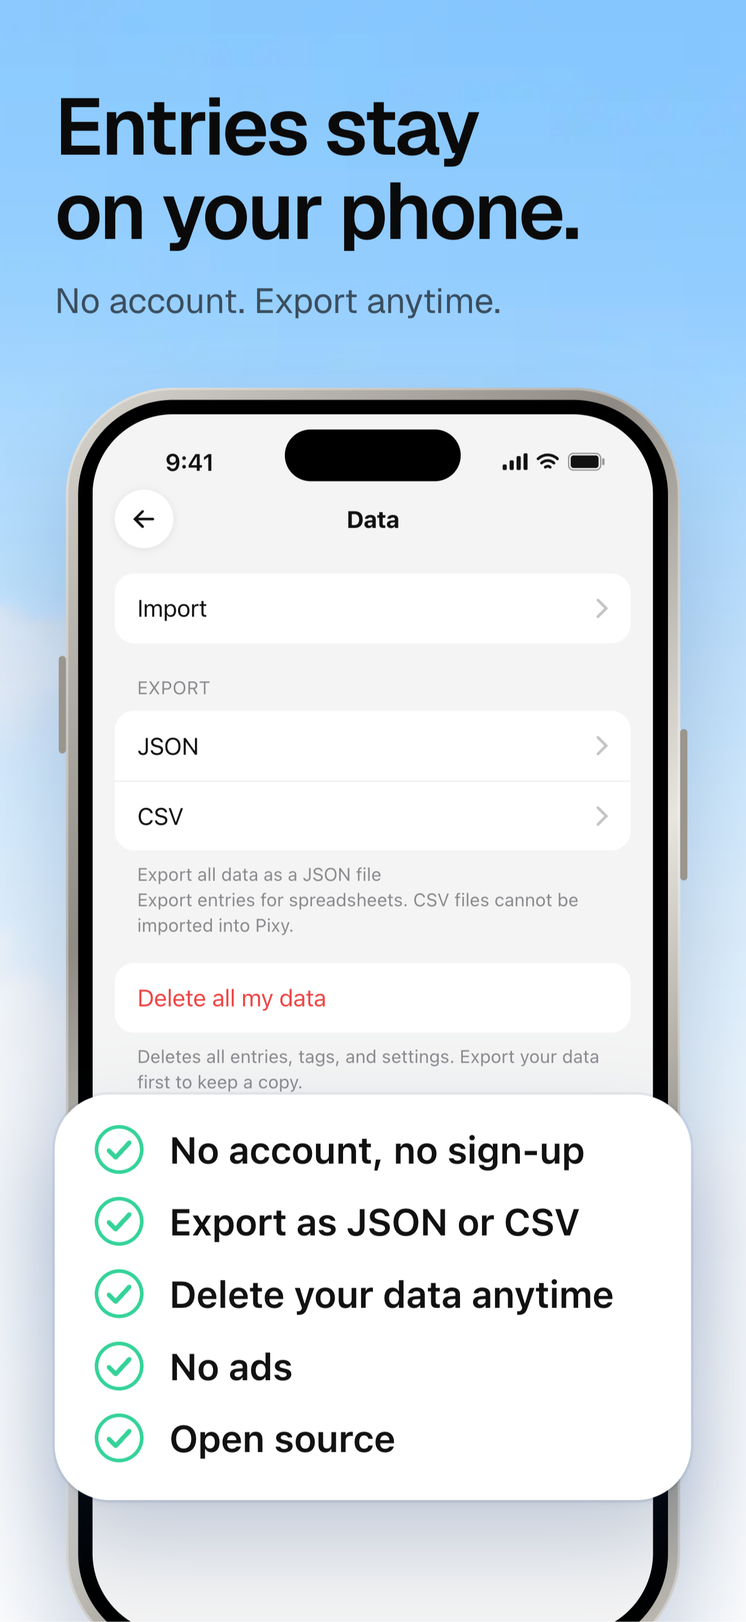
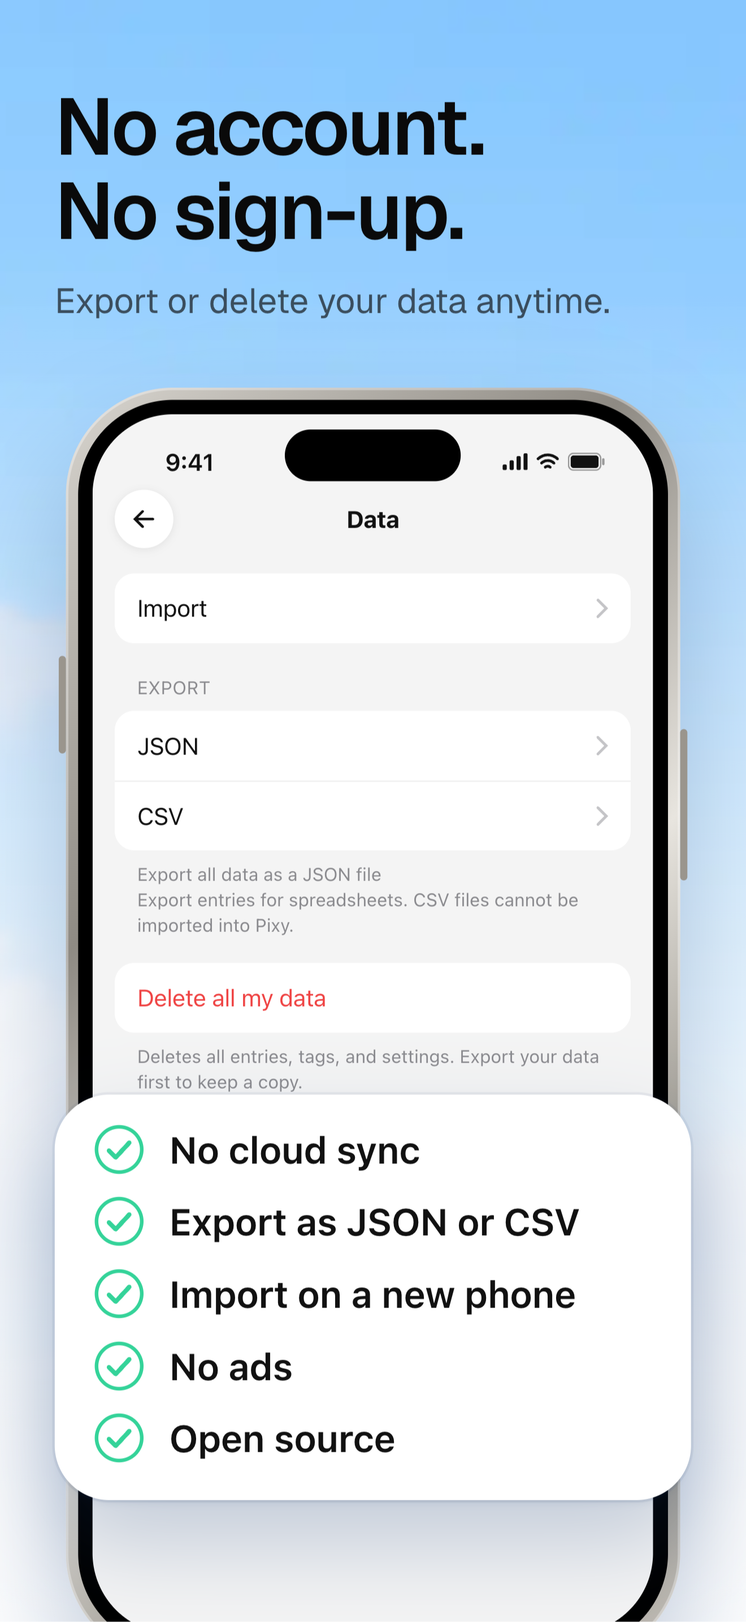
docs(store-screenshots): unbranded import frame, dark no-account frame
- Play 07: generic .csv/.json/.zip export files flow through Pixy Switch into the calendar, no app names or logos
- Play 08: back to the dark checklist frame, headline No account. No sign-up.
- Apple 07: No account. No sign-up. with No cloud sync in the checklist
- Drop Entries stay on your phone: analytics may include mood values outside the EU

diff --git a/docs/store-screenshots/index.html b/docs/store-screenshots/index.html
@@ -168,11 +168,18 @@ radial-gradient(1.4px 1.4px at 18% 10%,#fff,transparent),radial-gradient(1px 1px
 .zoom.note{display:block !important;width:256px !important;max-width:256px !important;font:400 15px/1.4 -apple-system,system-ui;padding:14px 16px}
 .android-set .zoom.checks div,.android-set .zoom.note{font-family:Roboto,system-ui}
 .android-set .scr h4{font-size:29px}
+.scr.dark .plist{margin:auto 0}
+.xfer{position:absolute;z-index:6;left:0;right:0;display:flex;justify-content:center;gap:12px;flex-wrap:wrap}
+.xf{width:72px;background:#fff;border-radius:16px;padding:10px 0 8px;display:flex;flex-direction:column;align-items:center;gap:7px;box-shadow:var(--sky-shadow)}
+.xt{width:44px;height:44px;border-radius:12px;display:flex;align-items:center;justify-content:center}
+.xc{font:600 12px ui-monospace,SFMono-Regular,Menlo,monospace;color:#0a0a0a;background:#f0f0f2;border-radius:6px;padding:2px 7px}
+.xa{flex-basis:100%;display:flex;flex-direction:column;align-items:center;gap:3px;margin-top:-4px}
+.xa b{order:-1;font:600 11px Geist,system-ui;letter-spacing:.07em;text-transform:uppercase;color:#0a0a0a;background:#fff;border-radius:999px;padding:4px 10px;box-shadow:var(--sky-shadow)}
 </style></head><body><main>
 <h1>Pixy store screenshots</h1>
 <p class="muted">Separate sets for the App Store and Google Play (copy and order in <code>STORES</code> in build.py). Spec: <a href="app-screens.md">app-screens.md</a>. Rebuild: <code>python3 build.py</code>, export PNGs: <code>./export.sh</code>, then serve this folder (<code>python3 -m http.server</code>).</p>
-<div class="platform"><h2>iPhone · App Store</h2></div><div class="set " data-store="apple"><div class="slot" data-name="calendar"><div class="scr"><h4 class="">Your days,<br>in pixels.</h4><div class="sub">Log a mood in seconds.</div><div class="phA" style="top:186px;left:24%;transform:translateX(-50%) rotate(-5deg) scale(.85);transform-origin:50% 0;"><div class="bz"><div class="sc" data-app="mood" data-args=''></div></div></div><div class="phA" style="top:150px;left:76%;transform:translateX(-50%) rotate(5deg) scale(.85);transform-origin:50% 0;z-index:2;"><div class="bz"><div class="sc" data-app="calendar" data-args=''></div></div></div></div><div class="lab"><b>1 · calendar.</b> Pixel calendar. Mood logger behind, calendar in front and higher.</div></div><div class="slot" data-name="year"><div class="scr"><h4 class="">Your whole year<br>at a glance</h4><div class="sub">One pixel for every day.</div><div class="phA" style="top:156px;transform:translateX(-50%) scale(var(--fit));transform-origin:50% 0;"><div class="bz"><div class="sc" data-app="year" data-args=''></div></div></div></div><div class="lab"><b>2 · year.</b> Year Report: Year in Pixels.</div></div><div class="slot" data-name="emotions"><div class="scr"><h4 class="">72 emotions,<br>each explained.</h4><div class="sub">Name what you feel.</div><div class="phA" style="top:156px;transform:translateX(-50%) scale(var(--fit));transform-origin:50% 0;"><div class="bz"><div class="sc" data-app="emotions" data-args=''></div></div></div><div class="zoom" style="top:500px"><span class="zc on" data-emo="calm"></span><span class="zc on" data-emo="hopeful"></span><span class="zc" data-emo="grateful"></span><span class="zc" data-emo="anxious"></span></div></div><div class="lab"><b>3 · emotions.</b> Logger emotions slide, Calm, Hopeful, Grateful, Anxious popped out.</div></div><div class="slot" data-name="stats"><div class="scr"><h4 class="">See your<br>patterns</h4><div class="sub">Mood trends and reports.</div><div class="phA" style="top:156px;transform:translateX(-50%) scale(var(--fit));transform-origin:50% 0;"><div class="bz"><div class="sc" data-app="stats" data-args=''></div></div></div></div><div class="lab"><b>4 · stats.</b> Statistics highlights: mood average, mood chart, most felt emotions.</div></div><div class="slot" data-name="tags"><div class="scr"><h4 class="">Tag what<br>matters</h4><div class="sub">Add tags and a note.</div><div class="phA" style="top:186px;left:24%;transform:translateX(-50%) rotate(-5deg) scale(.85);transform-origin:50% 0;"><div class="bz"><div class="sc" data-app="note" data-args=''></div></div></div><div class="phA" style="top:150px;left:76%;transform:translateX(-50%) rotate(5deg) scale(.85);transform-origin:50% 0;z-index:2;"><div class="bz"><div class="sc" data-app="tags" data-args=''></div></div></div><div class="zoom" style="top:500px"><span class="zc on"><i style="background:#22c55e"></i>Sport</span><span class="zc on"><i style="background:#f59e0b"></i>Hyperfocus</span><span class="zc on"><i style="background:#8b5cf6"></i>Took meds</span><span class="zc on"><i style="background:#3b82f6"></i>Meetings</span></div></div><div class="lab"><b>5 · tags.</b> Note slide behind, tags slide in front, own tags popped out.</div></div><div class="slot" data-name="sleep"><div class="scr"><h4 class="">Track your<br>sleep</h4><div class="sub">Rate each night in a tap.</div><div class="phA" style="top:156px;transform:translateX(-50%) scale(var(--fit));transform-origin:50% 0;"><div class="bz"><div class="sc" data-app="sleep" data-args=''></div></div></div><div class="popcard" data-card="sleepchart" style="left:50%;top:430px;transform:translateX(-50%) scale(.7);transform-origin:50% 0"></div></div><div class="lab"><b>6 · sleep.</b> Sleep slide, sleep quality chart popped out.</div></div><div class="slot" data-name="data"><div class="scr"><h4 class="">Entries stay<br>on your phone.</h4><div class="sub">No account. Export anytime.</div><div class="phA" style="top:156px;transform:translateX(-50%) scale(var(--fit));transform-origin:50% 0;"><div class="bz"><div class="sc" data-app="data" data-args=''></div></div></div><div class="zoom checks" style="top:440px"><div><svg width="22" height="22" viewBox="0 0 22 22"><circle cx="11" cy="11" r="10" fill="none" stroke="#34d399" stroke-width="1.6"/><path d="M6.5 11.5l3 3L15.5 8" stroke="#34d399" stroke-width="2" fill="none" stroke-linecap="round" stroke-linejoin="round"/></svg>No account, no sign-up</div><div><svg width="22" height="22" viewBox="0 0 22 22"><circle cx="11" cy="11" r="10" fill="none" stroke="#34d399" stroke-width="1.6"/><path d="M6.5 11.5l3 3L15.5 8" stroke="#34d399" stroke-width="2" fill="none" stroke-linecap="round" stroke-linejoin="round"/></svg>Export as JSON or CSV</div><div><svg width="22" height="22" viewBox="0 0 22 22"><circle cx="11" cy="11" r="10" fill="none" stroke="#34d399" stroke-width="1.6"/><path d="M6.5 11.5l3 3L15.5 8" stroke="#34d399" stroke-width="2" fill="none" stroke-linecap="round" stroke-linejoin="round"/></svg>Delete your data anytime</div><div><svg width="22" height="22" viewBox="0 0 22 22"><circle cx="11" cy="11" r="10" fill="none" stroke="#34d399" stroke-width="1.6"/><path d="M6.5 11.5l3 3L15.5 8" stroke="#34d399" stroke-width="2" fill="none" stroke-linecap="round" stroke-linejoin="round"/></svg>No ads</div><div><svg width="22" height="22" viewBox="0 0 22 22"><circle cx="11" cy="11" r="10" fill="none" stroke="#34d399" stroke-width="1.6"/><path d="M6.5 11.5l3 3L15.5 8" stroke="#34d399" stroke-width="2" fill="none" stroke-linecap="round" stroke-linejoin="round"/></svg>Open source</div></div></div><div class="lab"><b>7 · data.</b> Settings > Data: import, JSON/CSV export, delete. Checklist card.</div></div></div>
-<div class="platform"><h2>Android · Google Play</h2></div><div class="set android-set" data-store="play"><div class="slot" data-name="calendar"><div class="scr"><div class="k">Mood journal</div><h4 class="">Your days,<br>in pixels.</h4><div class="sub">Rate your day in seconds. Each day<br>becomes one colored square.</div><div class="phA" style="top:214px;left:24%;transform:translateX(-50%) rotate(-5deg) scale(.85);transform-origin:50% 0;"><div class="bz"><div class="sc" data-app="mood" data-args=''></div></div></div><div class="phA" style="top:178px;left:76%;transform:translateX(-50%) rotate(5deg) scale(.85);transform-origin:50% 0;z-index:2;"><div class="bz"><div class="sc" data-app="calendar" data-args=''></div></div></div></div><div class="lab"><b>1 · calendar.</b> Pixel calendar. Mood logger behind, calendar in front and higher.</div></div><div class="slot" data-name="year"><div class="scr"><div class="k">Year in Pixels</div><h4 class="">Your whole year<br>at a glance</h4><div class="sub">One pixel per day, a full year<br>on one screen.</div><div class="phA" style="top:184px;transform:translateX(-50%) scale(var(--fit));transform-origin:50% 0;"><div class="bz"><div class="sc" data-app="year" data-args=''></div></div></div></div><div class="lab"><b>2 · year.</b> Year Report: Year in Pixels.</div></div><div class="slot" data-name="emotions"><div class="scr"><div class="k">Emotions</div><h4 class="">Name what<br>you feel.</h4><div class="sub">72 emotions, each with a short<br>explanation.</div><div class="phA" style="top:184px;transform:translateX(-50%) scale(var(--fit));transform-origin:50% 0;"><div class="bz"><div class="sc" data-app="emotions" data-args=''></div></div></div><div class="zoom" style="top:400px"><span class="zc on" data-emo="calm"></span><span class="zc on" data-emo="hopeful"></span><span class="zc" data-emo="grateful"></span><span class="zc" data-emo="anxious"></span></div></div><div class="lab"><b>3 · emotions.</b> Logger emotions slide, Calm, Hopeful, Grateful, Anxious popped out.</div></div><div class="slot" data-name="tags"><div class="scr"><div class="k">Tags and notes</div><h4 class="">Tag what<br>matters</h4><div class="sub">Create your own tags. Add a note<br>to any entry.</div><div class="phA" style="top:214px;left:24%;transform:translateX(-50%) rotate(-5deg) scale(.85);transform-origin:50% 0;"><div class="bz"><div class="sc" data-app="note" data-args=''></div></div></div><div class="phA" style="top:178px;left:76%;transform:translateX(-50%) rotate(5deg) scale(.85);transform-origin:50% 0;z-index:2;"><div class="bz"><div class="sc" data-app="tags" data-args=''></div></div></div><div class="zoom" style="top:400px"><span class="zc on"><i style="background:#22c55e"></i>Sport</span><span class="zc on"><i style="background:#f59e0b"></i>Hyperfocus</span><span class="zc on"><i style="background:#8b5cf6"></i>Took meds</span><span class="zc on"><i style="background:#3b82f6"></i>Meetings</span></div></div><div class="lab"><b>4 · tags.</b> Note slide behind, tags slide in front, own tags popped out.</div></div><div class="slot" data-name="stats"><div class="scr"><div class="k">Statistics</div><h4 class="">Spot your<br>patterns</h4><div class="sub">Mood trends, most felt emotions,<br>month and year reports.</div><div class="phA" style="top:184px;transform:translateX(-50%) scale(var(--fit));transform-origin:50% 0;"><div class="bz"><div class="sc" data-app="stats" data-args=''></div></div></div></div><div class="lab"><b>5 · stats.</b> Statistics highlights: mood average, mood chart, most felt emotions.</div></div><div class="slot" data-name="sleep"><div class="scr"><div class="k">Sleep</div><h4 class="">Track how<br>you sleep</h4><div class="sub">Rate each night and follow the<br>trend in your statistics.</div><div class="phA" style="top:184px;transform:translateX(-50%) scale(var(--fit));transform-origin:50% 0;"><div class="bz"><div class="sc" data-app="sleep" data-args=''></div></div></div><div class="popcard" data-card="sleepchart" style="left:50%;top:360px;transform:translateX(-50%) scale(.7);transform-origin:50% 0"></div></div><div class="lab"><b>6 · sleep.</b> Sleep slide, sleep quality chart popped out.</div></div><div class="slot" data-name="switch"><div class="scr"><div class="k">Import and export</div><h4 class="">Bring your<br>old entries</h4><div class="sub">Pixy Switch converts exports from<br>21 mood and journal apps.</div><div class="phA" style="top:184px;transform:translateX(-50%) scale(var(--fit));transform-origin:50% 0;"><div class="bz"><div class="sc" data-app="data" data-args=''></div></div></div><div class="zoom note" style="top:346px"><div class="zl">Pixy Switch</div>Convert the export from your old app in the browser. Then tap <b>Import</b> in Pixy.</div></div><div class="lab"><b>7 · switch.</b> Settings > Data with a Pixy Switch card.</div></div><div class="slot" data-name="noaccount"><div class="scr"><div class="k">No account</div><h4 class="">No account.<br>No sign-up.</h4><div class="sub">Open Pixy and log your first day.<br>Entries stay on your phone.</div><div class="phA" style="top:184px;transform:translateX(-50%) scale(var(--fit));transform-origin:50% 0;"><div class="bz"><div class="sc" data-app="mood" data-args=''></div></div></div><div class="zoom checks" style="top:372px"><div><svg width="22" height="22" viewBox="0 0 22 22"><circle cx="11" cy="11" r="10" fill="none" stroke="#34d399" stroke-width="1.6"/><path d="M6.5 11.5l3 3L15.5 8" stroke="#34d399" stroke-width="2" fill="none" stroke-linecap="round" stroke-linejoin="round"/></svg>Export as JSON or CSV</div><div><svg width="22" height="22" viewBox="0 0 22 22"><circle cx="11" cy="11" r="10" fill="none" stroke="#34d399" stroke-width="1.6"/><path d="M6.5 11.5l3 3L15.5 8" stroke="#34d399" stroke-width="2" fill="none" stroke-linecap="round" stroke-linejoin="round"/></svg>Import on a new phone</div><div><svg width="22" height="22" viewBox="0 0 22 22"><circle cx="11" cy="11" r="10" fill="none" stroke="#34d399" stroke-width="1.6"/><path d="M6.5 11.5l3 3L15.5 8" stroke="#34d399" stroke-width="2" fill="none" stroke-linecap="round" stroke-linejoin="round"/></svg>Delete your data anytime</div><div><svg width="22" height="22" viewBox="0 0 22 22"><circle cx="11" cy="11" r="10" fill="none" stroke="#34d399" stroke-width="1.6"/><path d="M6.5 11.5l3 3L15.5 8" stroke="#34d399" stroke-width="2" fill="none" stroke-linecap="round" stroke-linejoin="round"/></svg>Open source</div></div></div><div class="lab"><b>8 · noaccount.</b> Mood logger right after opening the app. Checklist card.</div></div></div>
+<div class="platform"><h2>iPhone · App Store</h2></div><div class="set " data-store="apple"><div class="slot" data-name="calendar"><div class="scr "><h4 class="">Your days,<br>in pixels.</h4><div class="sub">Log a mood in seconds.</div><div class="phA" style="top:186px;left:24%;transform:translateX(-50%) rotate(-5deg) scale(.85);transform-origin:50% 0;"><div class="bz"><div class="sc" data-app="mood" data-args=''></div></div></div><div class="phA" style="top:150px;left:76%;transform:translateX(-50%) rotate(5deg) scale(.85);transform-origin:50% 0;z-index:2;"><div class="bz"><div class="sc" data-app="calendar" data-args=''></div></div></div></div><div class="lab"><b>1 · calendar.</b> Pixel calendar. Mood logger behind, calendar in front and higher.</div></div><div class="slot" data-name="year"><div class="scr "><h4 class="">Your whole year<br>at a glance</h4><div class="sub">One pixel for every day.</div><div class="phA" style="top:156px;transform:translateX(-50%) scale(var(--fit));transform-origin:50% 0;"><div class="bz"><div class="sc" data-app="year" data-args=''></div></div></div></div><div class="lab"><b>2 · year.</b> Year Report: Year in Pixels.</div></div><div class="slot" data-name="emotions"><div class="scr "><h4 class="">72 emotions,<br>each explained.</h4><div class="sub">Name what you feel.</div><div class="phA" style="top:156px;transform:translateX(-50%) scale(var(--fit));transform-origin:50% 0;"><div class="bz"><div class="sc" data-app="emotions" data-args=''></div></div></div><div class="zoom" style="top:500px"><span class="zc on" data-emo="calm"></span><span class="zc on" data-emo="hopeful"></span><span class="zc" data-emo="grateful"></span><span class="zc" data-emo="anxious"></span></div></div><div class="lab"><b>3 · emotions.</b> Logger emotions slide, Calm, Hopeful, Grateful, Anxious popped out.</div></div><div class="slot" data-name="stats"><div class="scr "><h4 class="">See your<br>patterns</h4><div class="sub">Mood trends and reports.</div><div class="phA" style="top:156px;transform:translateX(-50%) scale(var(--fit));transform-origin:50% 0;"><div class="bz"><div class="sc" data-app="stats" data-args=''></div></div></div></div><div class="lab"><b>4 · stats.</b> Statistics highlights: mood average, mood chart, most felt emotions.</div></div><div class="slot" data-name="tags"><div class="scr "><h4 class="">Tag what<br>matters</h4><div class="sub">Add tags and a note.</div><div class="phA" style="top:186px;left:24%;transform:translateX(-50%) rotate(-5deg) scale(.85);transform-origin:50% 0;"><div class="bz"><div class="sc" data-app="note" data-args=''></div></div></div><div class="phA" style="top:150px;left:76%;transform:translateX(-50%) rotate(5deg) scale(.85);transform-origin:50% 0;z-index:2;"><div class="bz"><div class="sc" data-app="tags" data-args=''></div></div></div><div class="zoom" style="top:500px"><span class="zc on"><i style="background:#22c55e"></i>Sport</span><span class="zc on"><i style="background:#f59e0b"></i>Hyperfocus</span><span class="zc on"><i style="background:#8b5cf6"></i>Took meds</span><span class="zc on"><i style="background:#3b82f6"></i>Meetings</span></div></div><div class="lab"><b>5 · tags.</b> Note slide behind, tags slide in front, own tags popped out.</div></div><div class="slot" data-name="sleep"><div class="scr "><h4 class="">Track your<br>sleep</h4><div class="sub">Rate each night in a tap.</div><div class="phA" style="top:156px;transform:translateX(-50%) scale(var(--fit));transform-origin:50% 0;"><div class="bz"><div class="sc" data-app="sleep" data-args=''></div></div></div><div class="popcard" data-card="sleepchart" style="left:50%;top:430px;transform:translateX(-50%) scale(.7);transform-origin:50% 0"></div></div><div class="lab"><b>6 · sleep.</b> Sleep slide, sleep quality chart popped out.</div></div><div class="slot" data-name="data"><div class="scr "><h4 class="">No account.<br>No sign-up.</h4><div class="sub">Export or delete your data anytime.</div><div class="phA" style="top:156px;transform:translateX(-50%) scale(var(--fit));transform-origin:50% 0;"><div class="bz"><div class="sc" data-app="data" data-args=''></div></div></div><div class="zoom checks" style="top:440px"><div><svg width="22" height="22" viewBox="0 0 22 22"><circle cx="11" cy="11" r="10" fill="none" stroke="#34d399" stroke-width="1.6"/><path d="M6.5 11.5l3 3L15.5 8" stroke="#34d399" stroke-width="2" fill="none" stroke-linecap="round" stroke-linejoin="round"/></svg>No cloud sync</div><div><svg width="22" height="22" viewBox="0 0 22 22"><circle cx="11" cy="11" r="10" fill="none" stroke="#34d399" stroke-width="1.6"/><path d="M6.5 11.5l3 3L15.5 8" stroke="#34d399" stroke-width="2" fill="none" stroke-linecap="round" stroke-linejoin="round"/></svg>Export as JSON or CSV</div><div><svg width="22" height="22" viewBox="0 0 22 22"><circle cx="11" cy="11" r="10" fill="none" stroke="#34d399" stroke-width="1.6"/><path d="M6.5 11.5l3 3L15.5 8" stroke="#34d399" stroke-width="2" fill="none" stroke-linecap="round" stroke-linejoin="round"/></svg>Import on a new phone</div><div><svg width="22" height="22" viewBox="0 0 22 22"><circle cx="11" cy="11" r="10" fill="none" stroke="#34d399" stroke-width="1.6"/><path d="M6.5 11.5l3 3L15.5 8" stroke="#34d399" stroke-width="2" fill="none" stroke-linecap="round" stroke-linejoin="round"/></svg>No ads</div><div><svg width="22" height="22" viewBox="0 0 22 22"><circle cx="11" cy="11" r="10" fill="none" stroke="#34d399" stroke-width="1.6"/><path d="M6.5 11.5l3 3L15.5 8" stroke="#34d399" stroke-width="2" fill="none" stroke-linecap="round" stroke-linejoin="round"/></svg>Open source</div></div></div><div class="lab"><b>7 · data.</b> Settings > Data: import, JSON/CSV export, delete. Checklist card.</div></div></div>
+<div class="platform"><h2>Android · Google Play</h2></div><div class="set android-set" data-store="play"><div class="slot" data-name="calendar"><div class="scr "><div class="k">Mood journal</div><h4 class="">Your days,<br>in pixels.</h4><div class="sub">Rate your day in seconds. Each day<br>becomes one colored square.</div><div class="phA" style="top:214px;left:24%;transform:translateX(-50%) rotate(-5deg) scale(.85);transform-origin:50% 0;"><div class="bz"><div class="sc" data-app="mood" data-args=''></div></div></div><div class="phA" style="top:178px;left:76%;transform:translateX(-50%) rotate(5deg) scale(.85);transform-origin:50% 0;z-index:2;"><div class="bz"><div class="sc" data-app="calendar" data-args=''></div></div></div></div><div class="lab"><b>1 · calendar.</b> Pixel calendar. Mood logger behind, calendar in front and higher.</div></div><div class="slot" data-name="year"><div class="scr "><div class="k">Year in Pixels</div><h4 class="">Your whole year<br>at a glance</h4><div class="sub">One pixel per day, a full year<br>on one screen.</div><div class="phA" style="top:184px;transform:translateX(-50%) scale(var(--fit));transform-origin:50% 0;"><div class="bz"><div class="sc" data-app="year" data-args=''></div></div></div></div><div class="lab"><b>2 · year.</b> Year Report: Year in Pixels.</div></div><div class="slot" data-name="emotions"><div class="scr "><div class="k">Emotions</div><h4 class="">Name what<br>you feel.</h4><div class="sub">72 emotions, each with a short<br>explanation.</div><div class="phA" style="top:184px;transform:translateX(-50%) scale(var(--fit));transform-origin:50% 0;"><div class="bz"><div class="sc" data-app="emotions" data-args=''></div></div></div><div class="zoom" style="top:400px"><span class="zc on" data-emo="calm"></span><span class="zc on" data-emo="hopeful"></span><span class="zc" data-emo="grateful"></span><span class="zc" data-emo="anxious"></span></div></div><div class="lab"><b>3 · emotions.</b> Logger emotions slide, Calm, Hopeful, Grateful, Anxious popped out.</div></div><div class="slot" data-name="tags"><div class="scr "><div class="k">Tags and notes</div><h4 class="">Tag what<br>matters</h4><div class="sub">Create your own tags. Add a note<br>to any entry.</div><div class="phA" style="top:214px;left:24%;transform:translateX(-50%) rotate(-5deg) scale(.85);transform-origin:50% 0;"><div class="bz"><div class="sc" data-app="note" data-args=''></div></div></div><div class="phA" style="top:178px;left:76%;transform:translateX(-50%) rotate(5deg) scale(.85);transform-origin:50% 0;z-index:2;"><div class="bz"><div class="sc" data-app="tags" data-args=''></div></div></div><div class="zoom" style="top:400px"><span class="zc on"><i style="background:#22c55e"></i>Sport</span><span class="zc on"><i style="background:#f59e0b"></i>Hyperfocus</span><span class="zc on"><i style="background:#8b5cf6"></i>Took meds</span><span class="zc on"><i style="background:#3b82f6"></i>Meetings</span></div></div><div class="lab"><b>4 · tags.</b> Note slide behind, tags slide in front, own tags popped out.</div></div><div class="slot" data-name="stats"><div class="scr "><div class="k">Statistics</div><h4 class="">Spot your<br>patterns</h4><div class="sub">Mood trends, most felt emotions,<br>month and year reports.</div><div class="phA" style="top:184px;transform:translateX(-50%) scale(var(--fit));transform-origin:50% 0;"><div class="bz"><div class="sc" data-app="stats" data-args=''></div></div></div></div><div class="lab"><b>5 · stats.</b> Statistics highlights: mood average, mood chart, most felt emotions.</div></div><div class="slot" data-name="sleep"><div class="scr "><div class="k">Sleep</div><h4 class="">Track how<br>you sleep</h4><div class="sub">Rate each night and follow the<br>trend in your statistics.</div><div class="phA" style="top:184px;transform:translateX(-50%) scale(var(--fit));transform-origin:50% 0;"><div class="bz"><div class="sc" data-app="sleep" data-args=''></div></div></div><div class="popcard" data-card="sleepchart" style="left:50%;top:360px;transform:translateX(-50%) scale(.7);transform-origin:50% 0"></div></div><div class="lab"><b>6 · sleep.</b> Sleep slide, sleep quality chart popped out.</div></div><div class="slot" data-name="switch"><div class="scr "><div class="k">Import and export</div><h4 class="">Bring your<br>old entries</h4><div class="sub">Convert exports from 21 mood and<br>journal apps with Pixy Switch.</div><div class="xfer" style="top:176px"><div class="xf" style="transform:rotate(-7deg)"><span class="xt" style="background:#f97316;color:#f97316"><svg width="22" height="26" viewBox="0 0 22 26"><path d="M3 1h11l7 7v15a2 2 0 0 1-2 2H3a2 2 0 0 1-2-2V3a2 2 0 0 1 2-2z" fill="#fff"/><path d="M14 1v7h7" fill="rgba(0,0,0,.18)"/><path d="M5 13h12M5 17h12M5 21h8" stroke="currentColor" stroke-width="1.6" stroke-linecap="round" opacity=".55"/></svg></span><span class="xc">.csv</span></div><div class="xf" style="transform:rotate(0deg)"><span class="xt" style="background:#8b5cf6;color:#8b5cf6"><svg width="22" height="26" viewBox="0 0 22 26"><path d="M3 1h11l7 7v15a2 2 0 0 1-2 2H3a2 2 0 0 1-2-2V3a2 2 0 0 1 2-2z" fill="#fff"/><path d="M14 1v7h7" fill="rgba(0,0,0,.18)"/><path d="M5 13h12M5 17h12M5 21h8" stroke="currentColor" stroke-width="1.6" stroke-linecap="round" opacity=".55"/></svg></span><span class="xc">.json</span></div><div class="xf" style="transform:rotate(7deg)"><span class="xt" style="background:#0ea5e9;color:#0ea5e9"><svg width="22" height="26" viewBox="0 0 22 26"><path d="M3 1h11l7 7v15a2 2 0 0 1-2 2H3a2 2 0 0 1-2-2V3a2 2 0 0 1 2-2z" fill="#fff"/><path d="M14 1v7h7" fill="rgba(0,0,0,.18)"/><path d="M5 13h12M5 17h12M5 21h8" stroke="currentColor" stroke-width="1.6" stroke-linecap="round" opacity=".55"/></svg></span><span class="xc">.zip</span></div><div class="xa"><svg width="12" height="16" viewBox="0 0 14 22" fill="none" stroke="#0a0a0a" stroke-width="2" stroke-linecap="round" stroke-linejoin="round"><path d="M7 1v19M1.5 14.5 7 20l5.5-5.5"/></svg><b>Pixy Switch</b></div></div><div class="phA" style="top:324px;transform:translateX(-50%) scale(var(--fit));transform-origin:50% 0;"><div class="bz"><div class="sc" data-app="calendar" data-args=''></div></div></div></div><div class="lab"><b>7 · switch.</b> Three unbranded export files (.csv, .json, .zip) flow through Pixy Switch into the calendar. No other app names or logos.</div></div><div class="slot" data-name="noaccount"><div class="scr dark"><div class="k">No account</div><h4 class="">No account.<br>No sign-up.</h4><div class="sub">Open Pixy and log your first day.</div><div class="plist"><div><svg width="22" height="22" viewBox="0 0 22 22"><circle cx="11" cy="11" r="10" fill="none" stroke="#34d399" stroke-width="1.6"/><path d="M6.5 11.5l3 3L15.5 8" stroke="#34d399" stroke-width="2" fill="none" stroke-linecap="round" stroke-linejoin="round"/></svg>No account needed</div><div><svg width="22" height="22" viewBox="0 0 22 22"><circle cx="11" cy="11" r="10" fill="none" stroke="#34d399" stroke-width="1.6"/><path d="M6.5 11.5l3 3L15.5 8" stroke="#34d399" stroke-width="2" fill="none" stroke-linecap="round" stroke-linejoin="round"/></svg>Export as JSON or CSV</div><div><svg width="22" height="22" viewBox="0 0 22 22"><circle cx="11" cy="11" r="10" fill="none" stroke="#34d399" stroke-width="1.6"/><path d="M6.5 11.5l3 3L15.5 8" stroke="#34d399" stroke-width="2" fill="none" stroke-linecap="round" stroke-linejoin="round"/></svg>Import on a new phone</div><div><svg width="22" height="22" viewBox="0 0 22 22"><circle cx="11" cy="11" r="10" fill="none" stroke="#34d399" stroke-width="1.6"/><path d="M6.5 11.5l3 3L15.5 8" stroke="#34d399" stroke-width="2" fill="none" stroke-linecap="round" stroke-linejoin="round"/></svg>Delete your data anytime</div><div><svg width="22" height="22" viewBox="0 0 22 22"><circle cx="11" cy="11" r="10" fill="none" stroke="#34d399" stroke-width="1.6"/><path d="M6.5 11.5l3 3L15.5 8" stroke="#34d399" stroke-width="2" fill="none" stroke-linecap="round" stroke-linejoin="round"/></svg>Open source</div></div></div><div class="lab"><b>8 · noaccount.</b> Dark checklist frame (night sky), list mid-screen.</div></div></div>
 <div class="platform"><h2>App Store · header and search results</h2></div>
 <div class="cvset">
  <div><div class="cv header" data-cv="header">
@@ -197,7 +204,7 @@ radial-gradient(1.4px 1.4px at 18% 10%,#fff,transparent),radial-gradient(1px 1px
   <div class="phA" style="top:96px;left:auto;right:-190px;transform:rotate(7deg) scale(1.25);z-index:1;"><div class="bz"><div class="sc" data-app="year" data-args=''></div></div></div>
  </div><div class="lab"><b>Google Play feature graphic</b> 1024x500 (rendered 2x, downsampled). Pixy Mood Journal lockup + headline left (no price, rating, or download claims), calendar and year in pixels right.</div></div>
 </div></main>
-<script src="https://unpkg.com/lucide@0.460.0/dist/umd/lucide.min.js"></script><script src="emotion-icons.js?v=1792946724"></script><script src="appscreens.js?v=1792946724"></script><script>
+<script src="https://unpkg.com/lucide@0.460.0/dist/umd/lucide.min.js"></script><script src="emotion-icons.js?v=1792947580"></script><script src="appscreens.js?v=1792947580"></script><script>
 document.head.insertAdjacentHTML('beforeend','<style>'+APP.css+'</style>');
 document.querySelectorAll('[data-app]').forEach(el=>{window.PIXY_OS=el.closest('.android-set')?'android':'ios';const a=(el.dataset.args||'').split(',').filter(Boolean);el.innerHTML=APP.render(el.dataset.app,a[0]||undefined,a[1]==='dark')});window.PIXY_OS='ios';
 document.querySelectorAll('[data-card]').forEach(el=>el.innerHTML='<div class="ps">'+APP.card(el.dataset.card)+'</div>');

diff --git a/docs/store-screenshots/build.py b/docs/store-screenshots/build.py
@@ -198,6 +198,12 @@ CHECKS = lambda items: '<div class="zoom checks" style="top:{z}px">' + "".join(f
 TILT_L = 'left:24%;transform:translateX(-50%) rotate(-5deg) scale(.85);transform-origin:50% 0;'
 TILT_R = 'left:76%;transform:translateX(-50%) rotate(5deg) scale(.85);transform-origin:50% 0;z-index:2;'
 FIT = 'transform:translateX(-50%) scale(var(--fit));transform-origin:50% 0;'
+DOC = '<svg width="22" height="26" viewBox="0 0 22 26"><path d="M3 1h11l7 7v15a2 2 0 0 1-2 2H3a2 2 0 0 1-2-2V3a2 2 0 0 1 2-2z" fill="#fff"/><path d="M14 1v7h7" fill="rgba(0,0,0,.18)"/><path d="M5 13h12M5 17h12M5 21h8" stroke="currentColor" stroke-width="1.6" stroke-linecap="round" opacity=".55"/></svg>'
+# Generic export files from other apps: colored tile + file type, never a name or logo.
+XFER = ('<div class="xfer" style="top:{z}px">' + "".join(
+    f'<div class="xf" style="transform:rotate({r}deg)"><span class="xt" style="background:{c};color:{c}">{DOC}</span><span class="xc">{ext}</span></div>'
+    for c, ext, r in (("#f97316", ".csv", -7), ("#8b5cf6", ".json", 0), ("#0ea5e9", ".zip", 7)))
+    + '<div class="xa"><svg width="12" height="16" viewBox="0 0 14 22" fill="none" stroke="#0a0a0a" stroke-width="2" stroke-linecap="round" stroke-linejoin="round"><path d="M7 1v19M1.5 14.5 7 20l5.5-5.5"/></svg><b>Pixy Switch</b></div></div>')
 
 # Frame library: id -> (label, html with {t} phone top and {z} overlay top)
 FRAMES = {
@@ -214,8 +220,9 @@ FRAMES = {
     "sleep": ("Sleep slide, sleep quality chart popped out.",
               phone('sleep', '{t}', FIT) + '<div class="popcard" data-card="sleepchart" style="left:50%;top:{z}px;transform:translateX(-50%) scale(.7);transform-origin:50% 0"></div>'),
     "data": ("Settings > Data: import, JSON/CSV export, delete. Checklist card.", phone('data', '{t}', FIT)),
-    "switch": ("Settings > Data with a Pixy Switch card.", phone('data', '{t}', FIT)),
-    "noaccount": ("Mood logger right after opening the app. Checklist card.", phone('mood', '{t}', FIT)),
+    "switch": ("Three unbranded export files (.csv, .json, .zip) flow through Pixy Switch into the calendar. No other app names or logos.",
+               XFER + phone('calendar', '{t}', FIT)),
+    "noaccount": ("Dark checklist frame (night sky), list mid-screen.", '<div class="plist">{checks}</div>'),
 }
 
 STORES = {
@@ -229,8 +236,8 @@ STORES = {
             ("stats", {"h": "See your<br>patterns", "sub": "Mood trends and reports."}),
             ("tags", {"h": "Tag what<br>matters", "sub": "Add tags and a note.", "t": 150}),
             ("sleep", {"h": "Track your<br>sleep", "sub": "Rate each night in a tap.", "z": 430}),
-            ("data", {"h": "Entries stay<br>on your phone.", "sub": "No account. Export anytime.", "z": 440,
-                      "extra": CHECKS(["No account, no sign-up", "Export as JSON or CSV", "Delete your data anytime", "No ads", "Open source"])}),
+            ("data", {"h": "No account.<br>No sign-up.", "sub": "Export or delete your data anytime.", "z": 440,
+                      "extra": CHECKS(["No cloud sync", "Export as JSON or CSV", "Import on a new phone", "No ads", "Open source"])}),
         ],
     },
     # Google Play: kicker + longer sub; captions stay under 20% of the image (Play screenshot guidance).
@@ -243,10 +250,9 @@ STORES = {
             ("tags", {"k": "Tags and notes", "h": "Tag what<br>matters", "sub": "Create your own tags. Add a note<br>to any entry.", "t": 178}),
             ("stats", {"k": "Statistics", "h": "Spot your<br>patterns", "sub": "Mood trends, most felt emotions,<br>month and year reports."}),
             ("sleep", {"k": "Sleep", "h": "Track how<br>you sleep", "sub": "Rate each night and follow the<br>trend in your statistics.", "z": 360}),
-            ("switch", {"k": "Import and export", "h": "Bring your<br>old entries", "sub": "Pixy Switch converts exports from<br>21 mood and journal apps.", "z": 346,
-                        "extra": '<div class="zoom note" style="top:{z}px"><div class="zl">Pixy Switch</div>Convert the export from your old app in the browser. Then tap <b>Import</b> in Pixy.</div>'}),
-            ("noaccount", {"k": "No account", "h": "No account.<br>No sign-up.", "sub": "Open Pixy and log your first day.<br>Entries stay on your phone.", "z": 372,
-                           "extra": CHECKS(["Export as JSON or CSV", "Import on a new phone", "Delete your data anytime", "Open source"])}),
+            ("switch", {"k": "Import and export", "h": "Bring your<br>old entries", "sub": "Convert exports from 21 mood and<br>journal apps with Pixy Switch.", "z": 176, "t": 324}),
+            ("noaccount", {"k": "No account", "h": "No account.<br>No sign-up.", "sub": "Open Pixy and log your first day.", "cls": "dark",
+                           "checks": ["No account needed", "Export as JSON or CSV", "Import on a new phone", "Delete your data anytime", "Open source"]}),
         ],
     },
 }
@@ -268,8 +274,9 @@ def store_set(key):
     for n, (fid, c) in enumerate(s["frames"], 1):
         lab, html = FRAMES[fid]
         t, z = c.get("t", s["t"]), c.get("z", s["z"])
-        html = (html + c.get("extra", "")).replace("{t2}", str(t + 36)).replace("{t}", str(t)).replace("{z}", str(z))
-        slots.append(f'<div class="slot" data-name="{fid}"><div class="scr">{caption(c)}{html}</div><div class="lab"><b>{n} · {fid}.</b> {lab}</div></div>')
+        checks = "".join(f'<div>{CK}{x}</div>' for x in c.get("checks", []))
+        html = (html + c.get("extra", "")).replace("{t2}", str(t + 36)).replace("{t}", str(t)).replace("{z}", str(z)).replace("{checks}", checks)
+        slots.append(f'<div class="slot" data-name="{fid}"><div class="scr {c.get("cls", "")}">{caption(c)}{html}</div><div class="lab"><b>{n} · {fid}.</b> {lab}</div></div>')
     return f'<div class="platform"><h2>{s["title"]}</h2></div><div class="set {s["cls"]}" data-store="{key}">{"".join(slots)}</div>'
 
 
@@ -284,6 +291,13 @@ STORE_CSS = r"""
 .zoom.note{display:block !important;width:256px !important;max-width:256px !important;font:400 15px/1.4 -apple-system,system-ui;padding:14px 16px}
 .android-set .zoom.checks div,.android-set .zoom.note{font-family:Roboto,system-ui}
 .android-set .scr h4{font-size:29px}
+.scr.dark .plist{margin:auto 0}
+.xfer{position:absolute;z-index:6;left:0;right:0;display:flex;justify-content:center;gap:12px;flex-wrap:wrap}
+.xf{width:72px;background:#fff;border-radius:16px;padding:10px 0 8px;display:flex;flex-direction:column;align-items:center;gap:7px;box-shadow:var(--sky-shadow)}
+.xt{width:44px;height:44px;border-radius:12px;display:flex;align-items:center;justify-content:center}
+.xc{font:600 12px ui-monospace,SFMono-Regular,Menlo,monospace;color:#0a0a0a;background:#f0f0f2;border-radius:6px;padding:2px 7px}
+.xa{flex-basis:100%;display:flex;flex-direction:column;align-items:center;gap:3px;margin-top:-4px}
+.xa b{order:-1;font:600 11px Geist,system-ui;letter-spacing:.07em;text-transform:uppercase;color:#0a0a0a;background:#fff;border-radius:999px;padding:4px 10px;box-shadow:var(--sky-shadow)}
 """
 
 # App Store creative assets (iOS 27+): product page header 21:9 and search results 3:2.
